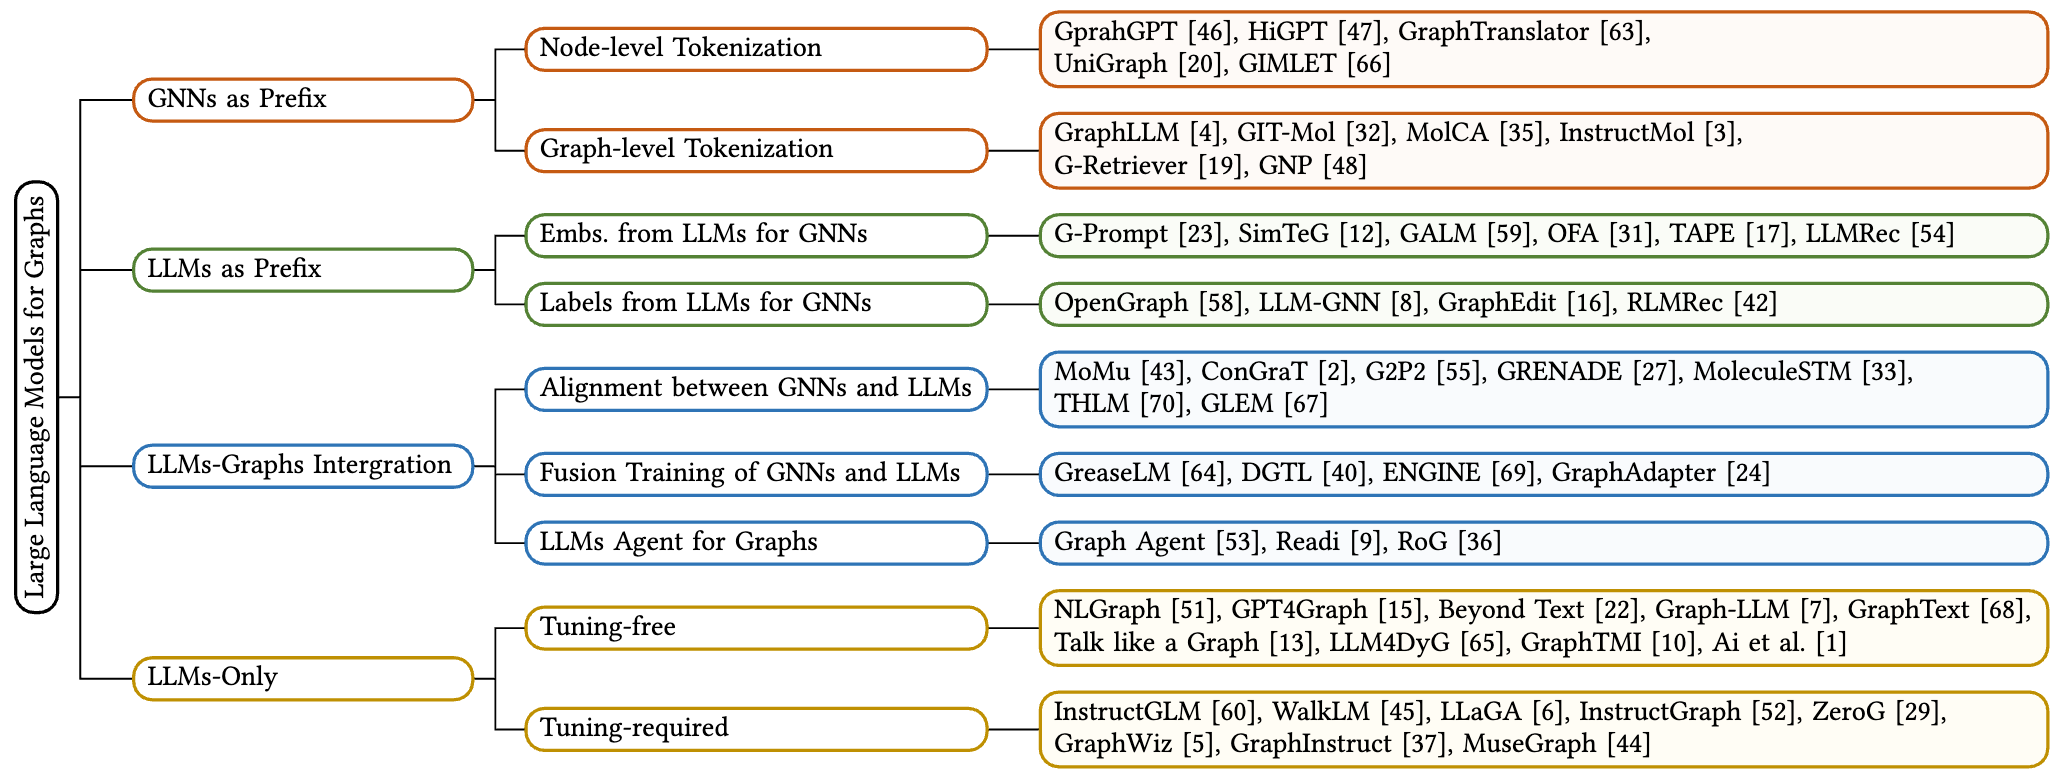
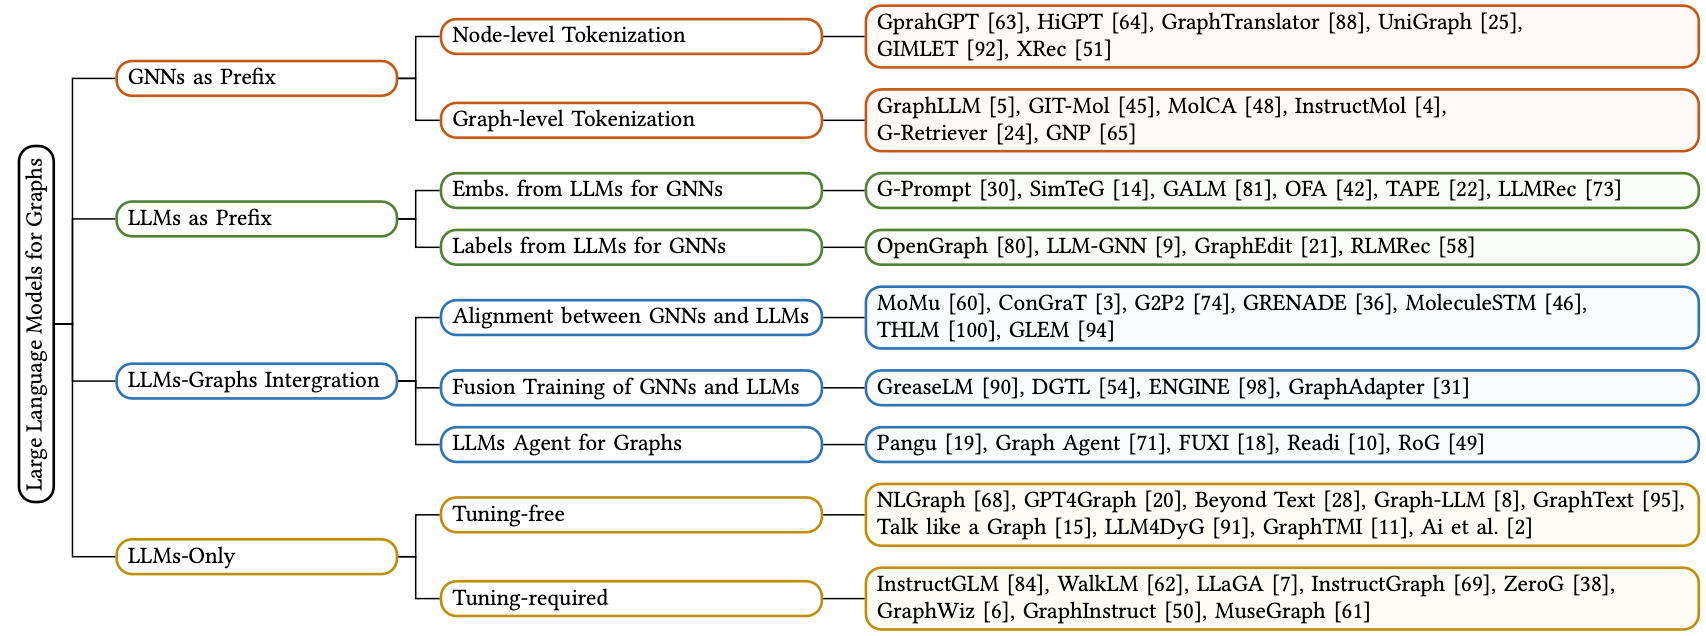
update

Changed region(s): [[0.0, 0.0, 1.0, 1.0], [0.9941, 0.6871, 1.0, 0.717], [0.9941, 0.5975, 1.0, 0.6274]]

diff --git a/README.md b/README.md
@@ -103,6 +103,7 @@ We hope this repository proves valuable to your research or practice in the fiel
 - (WWW'2024) GraphTranslator: Aligning Graph Model to Large Language Model for Open-ended Tasks [[paper](https://arxiv.org/pdf/2402.07197)]
 - (arxiv'2024) UniGraph: Learning a Cross-Domain Graph Foundation Model From Natural Language [[paper](https://arxiv.org/pdf/2402.13630v1)]
 - (NeurIPS'2024) GIMLET:Aunifiedgraph-textmodelforinstruction-based molecule zero-shot learning [[paper](https://proceedings.neurips.cc/paper_files/paper/2023/file/129033c7c08be683059559e8d6bfd460-Paper-Conference.pdf)]
+- (arxiv'2024) XRec: Large Language Models for Explainable Recommendation [[paper](https://arxiv.org/abs/2406.02377)]
 
 ### Graph-level 
 - (arxiv'2023) GraphLLM: Boosting graph reasoning ability of large language model [[paper](https://arxiv.org/pdf/2310.05845)]
@@ -138,13 +139,15 @@ We hope this repository proves valuable to your research or practice in the fiel
 - (arxiv'2022) Learning on large-scale text-attributed graphs via variational inference [[paper](https://arxiv.org/pdf/2210.14709)]
 
 ### Fusion Training of GNNs and LLMs
-- GreaseLM: Graph reasoning enhanced language models for question answering [[paper](https://arxiv.org/pdf/2201.08860)]
-- Disentangled representation learning with large language models for text-attributed graphs [[paper](https://arxiv.org/pdf/2310.18152v3)]
-- Efficient Tuning and Inference for Large Language Models on Textual Graphs [[paper](https://arxiv.org/pdf/2401.15569)]
+- (ICLR'2022) GreaseLM: Graph reasoning enhanced language models for question answering [[paper](https://arxiv.org/pdf/2201.08860)]
+- (arxiv'2023) Disentangled representation learning with large language models for text-attributed graphs [[paper](https://arxiv.org/pdf/2310.18152v3)]
+- (arxiv'2024) Efficient Tuning and Inference for Large Language Models on Textual Graphs [[paper](https://arxiv.org/pdf/2401.15569)]
 - (WWW'2024) Can GNN be Good Adapter for LLMs? [[paper](https://arxiv.org/pdf/2402.12984v1)]
 
 ### LLMs Agent for Graphs
+- (ACL'2023) Don't Generate, Discriminate: A Proposal for Grounding Language Models to Real-World Environments[[paper](https://arxiv.org/abs/2212.09736)]
 - (arxiv'2022) Graph Agent: Explicit Reasoning Agent for Graphs [[paper](https://arxiv.org/pdf/2310.16421)]
+- (arxiv'2024) Middleware for LLMs: Tools Are Instrumental for Language Agents in Complex Environments [[paper](https://arxiv.org/abs/2402.14672)]
 - (arxiv'2023) Call Me When Necessary: LLMs can Efficiently and Faithfully Reason over Structured Environments [[paper](https://arxiv.org/pdf/2403.08593)]
 - (ICLR'2024) Reasoning on graphs: Faithful and interpretable large language model reasoning [[paper](https://arxiv.org/pdf/2310.01061)]
 
